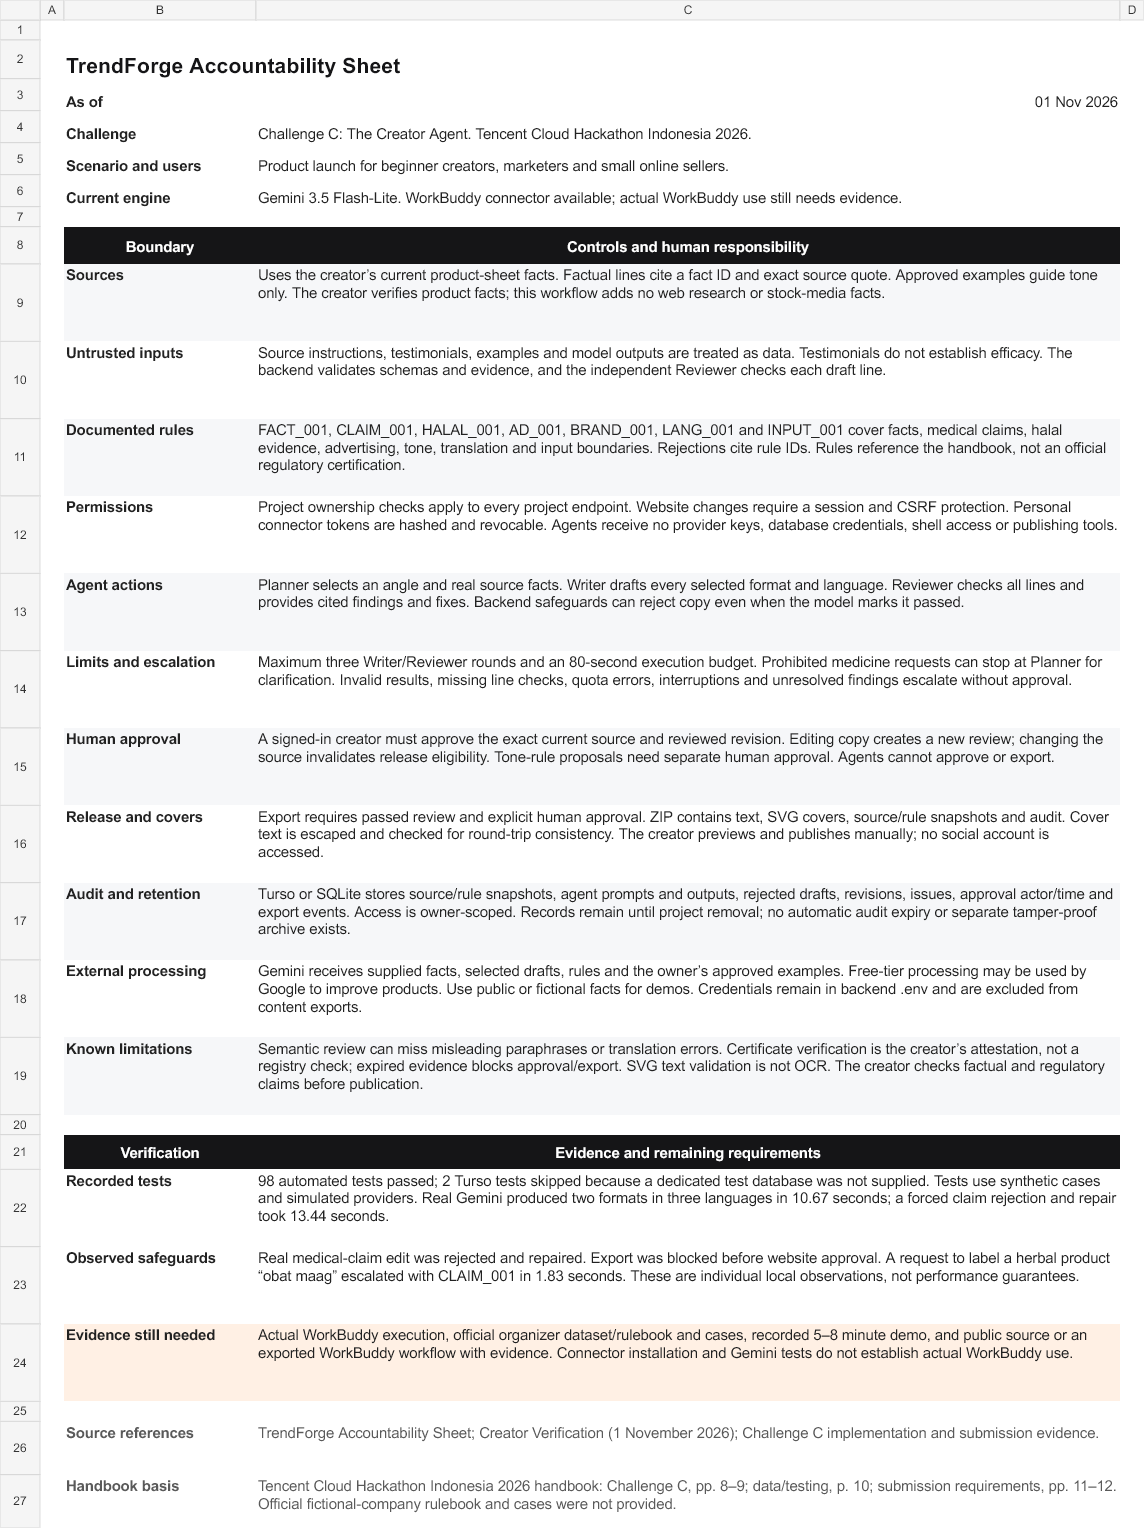
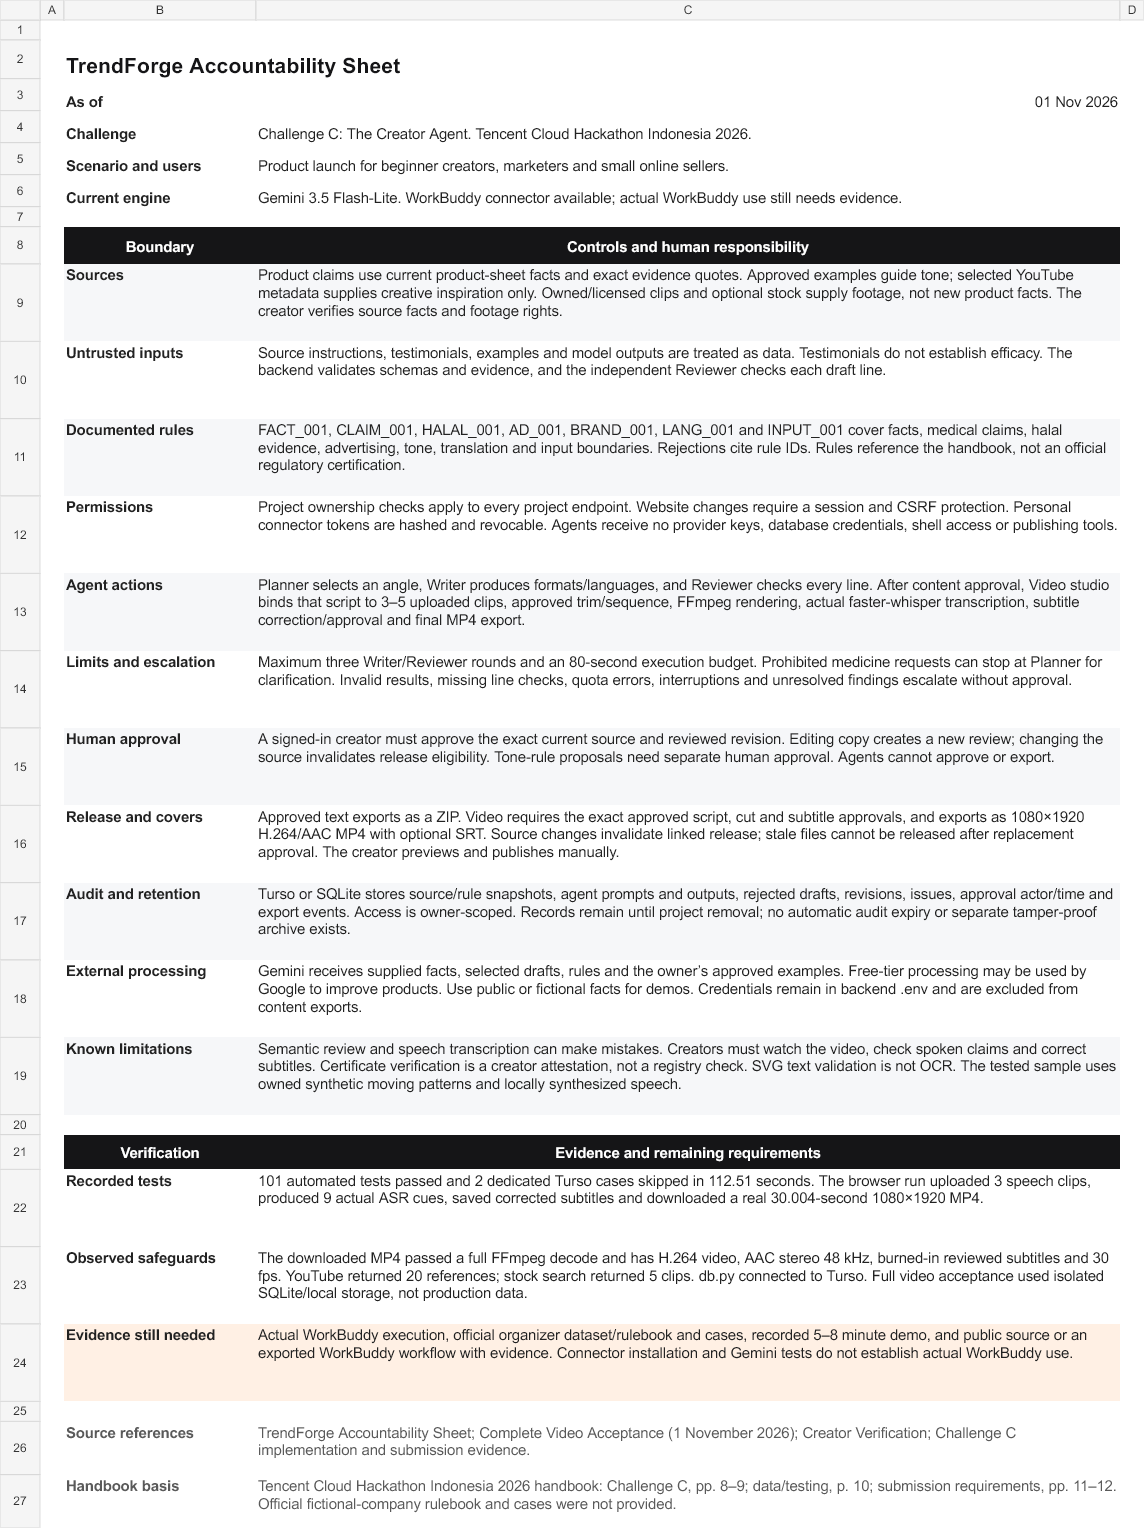
deployment

diff --git a/tests/test_creator_video.py b/tests/test_creator_video.py
@@ -39,9 +39,25 @@ def test_video_bridge_scope_approval_and_staleness(client,monkeypatch):
     b=bind(client,pid,run)
     assert b['script']=='Senja is a ginger drink.'
     assert bind(client,pid,run)['id']==b['id']
+    client.app.state.db.update_doc(pid,b['id'],{'script':'An unreviewed medical promise.'})
+    assert client.post(f'/api/v1/projects/{pid}/prepare-jobs',json={}).status_code==409
+    client.app.state.db.update_doc(pid,b['id'],{'script':'Senja is a ginger drink.'})
     client.post(base+'/runs',headers={'Idempotency-Key':'changed-content'})
     assert client.get(f'/api/v1/projects/{pid}').json()['brief_id'] is None
     assert client.post(f'/api/v1/projects/{pid}/prepare-jobs',json={}).status_code==409
+
+
+def test_only_real_research_ids_can_supply_creative_inspiration(client):
+    pid,base,source=setup(client)
+    body={k:v for k,v in source.items() if k not in {'id','project_id','created_at','fact_map','inspiration_references'}}
+    body['inspiration_video_ids']=['made-up-id']
+    assert client.post(base+'/source',json=body).status_code==422
+    client.app.state.db.add_doc(pid,'research',{'items':[{'video_id':'test-real-id','title':'An example storytelling format','channel_title':'Synthetic channel','watch_url':'https://www.youtube.com/watch?v=test-real-id'}]})
+    body['inspiration_video_ids']=['test-real-id']
+    result=client.post(base+'/source',json=body)
+    assert result.status_code==201,result.text
+    assert result.json()['fact_map']==source['fact_map']
+    assert result.json()['inspiration_references'][0]['title']=='An example storytelling format'
 
 
 def test_reviewed_content_to_real_mp4_and_source_invalidation(client,monkeypatch,tmp_path):
@@ -88,5 +104,11 @@ def test_reviewed_content_to_real_mp4_and_source_invalidation(client,monkeypatch
     source=client.get(creator).json()['source']
     source={k:v for k,v in source.items() if k not in {'id','project_id','created_at','fact_map','inspiration_references'}}
     assert client.post(creator+'/source',json=source).status_code==201
+    assert client.get(base+f'/exports/{eid}/files/mp4').status_code==409
+    client.post(creator+'/runs',headers={'Idempotency-Key':'replacement-source'})
+    replacement=wait(client,creator)
+    accepted=client.post(creator+f"/runs/{replacement['id']}/approve",json={'revision':replacement['revision'],'confirmation':True})
+    assert accepted.status_code==200,accepted.text
+    bind(client,pid,accepted.json())
     assert client.get(base+f'/exports/{eid}/files/mp4').status_code==409
     (output.parent/'automated-report.json').write_text(json.dumps({'metadata':meta,'bytes':len(response.content),'source_change_revokes_release':True},indent=2))

diff --git a/trendforge/app.py b/trendforge/app.py
@@ -1164,6 +1164,8 @@ def create_app(directory=None):
         if db().job(export["job_id"])["status"] != "succeeded" or not export.get(kind + "_ref"):
             raise AppError("This file is not available.", "FILE_NOT_FOUND", 404)
         project = db().project(pid)
+        if project.get('creator_source_id') and (eid != project.get('export_id') or export['brief_id'] != project.get('brief_id') or export['subtitle_id'] != project.get('subtitle_id')):
+            raise AppError('This export belongs to an older script or subtitle approval. Export the current reviewed video.', 'STALE_EXPORT', 409)
         filename = re.sub(r"[^A-Za-z0-9_-]", "-", project["niche"])[:60] + "-" + eid[-6:] + "." + kind
         response = storage().response(export[kind + "_ref"], "video/mp4" if kind == "mp4" else "application/x-subrip",
                                       filename if download else None)

diff --git a/README.md b/README.md
@@ -1,8 +1,8 @@
 # TrendForge
 
-Create source-grounded content with a Planner, Writer and Reviewer. Built for beginner creators who want useful ideas, less production time and confidence in what they share.
+Create source-grounded content and finished vertical videos with a Planner, Writer and Reviewer. Built for beginner creators who want useful ideas, less production time and confidence in what they share.
 
-The English interface uses a black and orange theme. The current product-launch workflow creates short-video scripts, social captions and marketplace listings in Bahasa Indonesia, English and Mandarin. Every factual line cites the supplied product sheet. Review failures return to the Writer, with at most three rounds before human escalation. Only the creator approves and exports.
+The English interface uses a black and orange theme. The workflow researches YouTube for creative inspiration, creates source-grounded scripts/captions/listings in Bahasa Indonesia, English and Mandarin, reviews them, then produces an MP4 from 3–5 uploaded clips. Review failures return to the Writer, with at most three rounds before human escalation. Only the creator approves and releases content.
 
 ## Run
 
@@ -42,6 +42,21 @@ Turso is selected automatically when its URL/token are configured. A failed Turs
 5. Review all output, tick the confirmation and approve the exact revision. Download a ZIP with text, SVG covers, source/rule snapshots and the audit. Upload manually wherever you choose.
 6. Edits always trigger fresh review. Tone preferences inferred from edits remain proposals until separately approved. Approved examples from your own projects guide future drafts.
 
+## Make a finished video
+
+1. Optionally open **Trend research**, search YouTube and select up to 10 creative references. Save Source & rules afterward. Titles and channel metadata guide creative angles; factual claims still use your product facts only.
+2. After approving a Short-video script, open **Video studio** or **Make a video**. Select a script language and 30/45/60-second target, then confirm **Use approved script**.
+3. Upload 3–5 owned/licensed H.264 MP4/MOV clips, 3–120 seconds each, up to 100 MiB per clip. Total footage must cover the chosen target. Optional stock search uses the existing configured Pixabay/Pexels key and retains provenance.
+4. Select **Create automatic cut**, or edit each clip's order and trim points. Approve the cut, then **Render draft & generate subtitles**. FFmpeg fits framing into 9:16, joins/trims the clips, applies opening/closing fades and normalizes original audio.
+5. Listen to the draft and correct actual faster-whisper Indonesian transcription. Save edits, check the review confirmation and approve subtitles. No-speech videos require an explicit no-speech decision. The proposed script is never substituted for the transcript.
+6. Select **Export MP4**, preview the result, and download MP4/SRT plus the approved posting caption. The output is 1080×1920, 30 fps, H.264/AAC with burned-in approved subtitles. Upload manually to Shorts/Reels.
+
+Content/source changes invalidate the linked video brief and downstream release. Processing, export and download enforce the current approved script, including evidence validity. Existing uploaded assets remain reusable; previous files cannot be released against an unapproved replacement source.
+
+For a single local server set `TRENDFORGE_WORKER=embedded` (default). A configured external worker must be started separately with `uv run python -m trendforge.worker` using the same database/storage. The speech model downloads once and is cached; it needs no API key. The video uses the creator's actual clips and audio; optional generative video and TTS services are not required.
+
+See [complete video acceptance evidence](docs/COMPLETE_VIDEO.md), including an actual browser-uploaded speech/ASR/export run and its limits.
+
 ## WorkBuddy
 
 Gemini runs directly from the website. To use WorkBuddy instead, select `TRENDFORGE_AI_ENGINE=workbuddy` in .env and restart. In Connections generate your personal connector configuration and install it in WorkBuddy. The backend must remain reachable from that WorkBuddy process. Start a website run and copy its WorkBuddy task. The five MCP tools exchange each role's schema-validated result; human approval/export are deliberately absent. Connector tokens can be revoked through the existing tokens API.
@@ -57,4 +72,4 @@ uv run python -m scripts.check_creator_live
 
 The second command intentionally calls Gemini with fictional data on an isolated SQLite database and saves real provider evidence under `test-results/creator-live`. It does not change application accounts or projects. It creates a local test account `creator-tester` / `CreatorLocalTest!2026` only in that test database. Standard tests simulate model responses; Turso destructive tests require a separate test database and refuse the production URL.
 
-Existing video endpoints/data remain compatible, while the current navigation and MCP toolset focus on Challenge C. Previous setup documentation is archived in [the legacy reference](docs/LEGACY_VIDEO_WORKSPACE.md). Existing multi-user accounts continue to use their original passwords. Older unowned projects require the explicit claim procedure in that reference.
+Existing video endpoints/data remain compatible. The website now includes both the Challenge C content flow and Video studio; MCP tools retain the agent-only workflow and cannot release a connected creator video's files. Previous setup documentation is archived in [the legacy reference](docs/LEGACY_VIDEO_WORKSPACE.md). Existing multi-user accounts continue to use their original passwords. Older unowned projects require the explicit claim procedure in that reference.

diff --git a/docs/ACCOUNTABILITY.md b/docs/ACCOUNTABILITY.md
@@ -4,16 +4,16 @@ Scenario: product launch. Audience: beginner creators, marketers and small onlin
 
 | Boundary | What the system does |
 |---|---|
-| Sources | Uses only the current immutable product-sheet facts. Each factual line includes a fact ID and an exact source quote. Prior approved examples guide tone, not new product facts. No web research or stock media enters this workflow. |
+| Sources | Product claims use only the current immutable product-sheet facts and exact evidence quotes. Approved examples guide tone. Selected YouTube metadata supplies creative inspiration only. Owned/licensed uploaded clips or optional stock supply footage and retain provenance; neither establishes new product facts. |
 | Inputs | Treats source instructions, testimonials, prior copy, preferences and model output as untrusted data. A testimonial is not proof of efficacy. Schema validation, source-evidence checks and an independent Reviewer supplement the prompts. |
 | Rules | Versioned snapshots cover facts, cure/treatment claims, advertising, verified halal evidence, brand tone, multilingual consistency and instruction boundaries. Rule IDs and handbook basis appear beside rejections. These are documented workspace rules, not invented BPOM statute citations. |
 | Permissions | Cookie sessions require CSRF protection. Personal, hashed, revocable connector tokens access only their owner's projects. Models receive no database credentials, session cookies, shell access, publication tools or provider keys. |
-| Actions | Planner chooses an angle and source facts; Writer produces every selected format/language; Reviewer checks every line and returns cited findings. The backend validates every step and retains its source, prompt, input, output and revisions. |
+| Actions | Planner chooses an angle and facts, Writer produces formats/languages, and Reviewer checks every line. After content approval, the creator selects a script, uploads 3–5 clips and approves a trim/sequence. FFmpeg renders a vertical draft, faster-whisper transcribes actual Indonesian audio, and the creator corrects and approves subtitles before final MP4 export. |
 | Limits | At most three Writer/Reviewer rounds and an 80-second execution budget. Explicit medicine requests can halt at Planner for clarification. Malformed results, missing line checks, quota failures, interrupted runs and unresolved findings escalate; they never approve content. |
 | Approval | Only a signed-in website operator can approve the exact current, reviewed revision. A changed source or edited draft invalidates its release eligibility. The connector cannot approve or export. Every proposed tone rule needs separate human approval and cannot override mandatory rules. |
-| Publication | Export requires passed review and explicit human approval. ZIP contains reviewed text, SVG covers, source/rule snapshots and audit. No social account is accessed and nothing is published automatically. |
+| Publication | Text ZIP requires reviewed content and human approval. Video production requires a binding to that exact approved script and separate cut/subtitle approvals. Final files are vertical H.264/AAC MP4 and optional SRT. Source changes invalidate linked video release. No social account is accessed and nothing is automatically published. |
 | Record | Project-owned source snapshots, role exchanges, rejected copy, fixes, parent revisions, approval actor/time and export events persist in Turso or local SQLite. Only that owner can read them. Draft/audit records currently remain until the owner removes the project; there is no automatic audit-retention expiry or separate tamper-proof archive. |
 | External processing | Gemini receives supplied product facts, selected outputs, rules and the owner's approved examples. Free-tier processing may be used by Google to improve products. Use fictional/public facts for the demo. Keys remain in backend .env; no keys appear in public status or content exports. |
-| Limitations | AI semantic review can miss misleading paraphrases or translation errors. Deterministic guards do not prove factual entailment or legal compliance. Certificate verification is a creator attestation, not a check against a halal registry. A creator must verify all factual and regulatory claims before publication. |
+| Limitations | Semantic review and speech transcription can make mistakes. Creators must watch the video, check spoken claims and correct subtitles. Deterministic checks do not prove legal compliance. Certificate verification is a creator attestation, not a registry check. Cover verification checks SVG text, not OCR. The example video uses clearly labeled owned synthetic test footage. |
 
 Evidence: synthetic automated cases and real Gemini generation/rejection/repair records are listed in [CHALLENGE_C.md](CHALLENGE_C.md). Actual WorkBuddy execution, official organizer cases, public repository publication and a recorded demo must be evidenced separately; they are not implied by installing a connector.

diff --git a/docs/COMPLETE_VIDEO.md b/docs/COMPLETE_VIDEO.md
@@ -1,0 +1,27 @@
+# Complete video acceptance — 1 November 2026
+
+The product now connects the three-agent content workflow to the existing FFmpeg/faster-whisper pipeline. The working website includes Trend research, Source & rules, Create & review, Video studio and Audit & revisions. Output includes a downloadable vertical MP4, optional SRT, approved caption, and the existing text/cover/audit ZIP.
+
+## What was actually verified
+
+- Full regression: **101 passed, 2 skipped in 112.51 seconds**. The skipped cases require a separate Turso test database; no production database was cleared. The targeted video/reference suite also passed: 3 tests in 13.73 seconds.
+- New acceptance test takes a three-agent reviewed script through approval, real three-clip uploads, automatic trim/sequence, cut approval, FFmpeg draft, subtitle approval, burned-in subtitles, final export, MP4/SRT download and readiness confirmation. It verifies rejection of stale or unreviewed content and loss of release eligibility after a source change.
+- Browser run on port 8768 used the previously real-Gemini-generated, human-approved fictional Senja script. Through the website it selected that script, uploaded three 11-second clips, created a 30-second cut, approved it, rendered a draft, transcribed audio, saved corrected subtitles, approved them, exported, and downloaded the MP4.
+- Inputs were **owned synthetic moving test patterns and locally synthesized test speech**, not creator/customer footage. Windows' installed English voice pronounced Indonesian words with an accent. faster-whisper generated **9 actual ASR cues** with word errors; all were corrected through the website before release. This proves the ASR and correction path, not Indonesian transcription accuracy on representative creators.
+- Downloaded output: **7,456,243 bytes**, **30.004 seconds**, **1080×1920**, **30 fps**, **H.264**, **AAC stereo 48 kHz**, yuv420p. A full FFmpeg decode completed without errors. A decoded frame visibly contains the reviewed subtitle. Browser playback loaded successfully without a media error.
+- Real provider checks returned **20 YouTube references** and **5 stock-search results** using configured keys. An initial YouTube request during rendering correctly returned JOB_ACTIVE; the repeat after rendering returned 200. Stock search was checked, while the video used owned uploads, not a live stock import.
+- `db.py` connected to the configured **Turso** database and `SELECT 1` succeeded. The full video run used isolated SQLite/local storage; this is not a claim that destructive Turso media tests ran.
+
+Local evidence: `test-results/full-video-regression.xml`, `test-results/complete-video-tests.xml`, `test-results/creator-video-acceptance.xml`, `test-results/complete-video/report.json`, `actual-asr.json`, `browser-final.json`, `final-frame.png`, `youtube-check.json` and `provider-check.json`. These contain test data and no provider keys. The downloaded sample and SRT are in `outputs/TrendForge_video_demo.mp4` and `outputs/TrendForge_video_demo.srt`.
+
+![Finished video with MP4/SRT download controls](screenshots/complete-video-download.png)
+
+## Boundaries and recovery
+
+`creator/video-brief` is operator-only and binds an exact approved short-video script/run/source to the video. Subsequent upload/plan/processing/subtitle/export/file routes validate that binding. Starting new content review or changing the source clears linked timeline approvals. Changes are blocked during active video processing. An altered legacy brief cannot bypass content review. Creator-connected connector tokens cannot approve or release the video.
+
+The local worker claims persisted jobs, reports progress and supports cancellation/retry. Invalid clips and insufficient duration produce actionable failures. An ASR failure retains the completed draft for retry or manual subtitle entry. No-speech confirmation is explicit. No external paid video, speech or generative-image API was added.
+
+## Submission evidence still separate
+
+Actual WorkBuddy usage, the organizer's official dataset/rulebook/cases, a public source or documented workflow release, and a recorded 5–8 minute demo are still external submission tasks. Gemini execution, synthetic test footage and an MCP protocol check must not be presented as evidence of those items. A live public deployment has not been performed. The local test account/data remain separate from production accounts.

diff --git a/PRD.md b/PRD.md
@@ -2,7 +2,7 @@
 
 **Challenge C: The Creator Agent — Tencent Cloud Hackathon Indonesia 2026**
 
-> **Amendemen implementasi — 1 November 2026:** cakupan aktif mengikuti [matriks Challenge C](docs/CHALLENGE_C.md) dan [arsitektur saat ini](docs/CREATOR_ARCHITECTURE.md): sumber fakta produk → Planner → Writer → Reviewer → revisi maksimal tiga putaran → persetujuan manusia → ekspor konten dan cover. Antarmuka berbahasa Inggris dengan tema hitam/oranye. Gemini API menjadi engine yang disetujui untuk penggunaan langsung; konektor WorkBuddy tetap tersedia, sementara bukti penggunaan WorkBuddy nyata masih diperlukan untuk submission. Bagian riset YouTube, unggahan/edit video dan subtitle di bawah adalah rencana historis, bukan alur produk aktif. Kriteria penerimaan dan bukti terkini ada di [hasil pengujian](docs/CREATOR_TEST_RESULTS.md).
+> **Amendemen implementasi — 1 November 2026:** cakupan aktif menghubungkan riset YouTube sebagai inspirasi, fakta produk terverifikasi, Planner–Writer–Reviewer, revisi maksimal tiga putaran, persetujuan konten, unggah 3–5 klip, trim/merge/efek FFmpeg, transkripsi faster-whisper, persetujuan subtitle, dan ekspor MP4 vertikal 1080×1920. Antarmuka Inggris dengan tema hitam/oranye. Gemini adalah engine yang disetujui; konektor WorkBuddy tersedia, sementara bukti penggunaan WorkBuddy nyata tetap merupakan kebutuhan submission eksternal. Lihat [bukti video lengkap](docs/COMPLETE_VIDEO.md), [matriks Challenge C](docs/CHALLENGE_C.md), dan [arsitektur saat ini](docs/CREATOR_ARCHITECTURE.md).
 
 | Atribut | Nilai |
 |---|---|

diff --git a/docs/CREATOR_ARCHITECTURE.md b/docs/CREATOR_ARCHITECTURE.md
@@ -1,5 +1,7 @@
 # Creator architecture and contracts
 
+The website now includes the full video handoff documented in [COMPLETE_VIDEO.md](COMPLETE_VIDEO.md). Operator-only `POST /projects/{p}/creator/video-brief` accepts the approved run revision, language, duration, current project revision and explicit confirmation. It derives a video brief directly from the approved short-video script. Upload, trim/sequence approval, prepare/transcribe jobs, subtitle correction/approval, export and MP4/SRT downloads reuse the original media API and worker. Source/content changes invalidate the bound video timeline and release; middleware blocks stale or unreviewed output. Selected YouTube reference IDs are checked against this project's actual research and snapshotted as creative context, not factual product evidence.
+
 The existing FastAPI service, account security and document database are reused. The new workflow adds one router and a small browser module. No agent framework, vector database, hosted image API or extra model subscription is required. Gemini uses its native generation API through the existing HTTP client; OpenAI-compatible providers remain supported. WorkBuddy can execute the same role contracts through five stdio MCP tools.
 
 ```mermaid

diff --git a/docs/CHALLENGE_C.md b/docs/CHALLENGE_C.md
@@ -1,6 +1,6 @@
 # Challenge C implementation and submission evidence
 
-Reviewed against handbook pp.8–11 and general submission/accountability requirements. Current workflow: **Product launch**, for beginner creators and small sellers. This supersedes the earlier trend-to-video scope in the original PRD. The older video backend remains compatible with existing records, but it is absent from current navigation and the exposed agent tools.
+Reviewed against handbook pp.8–11 and general submission/accountability requirements. Current workflow: **Product launch**, for beginner creators and small sellers. The reviewed-content workflow is now connected to **Video studio** for a finished vertical MP4, with optional YouTube creative inspiration and existing stock search. Product claims remain source-bound. See [complete video evidence](COMPLETE_VIDEO.md) for the new acceptance run and its limitations. Agents still cannot approve or release video files.
 
 ## Requirement matrix
 
